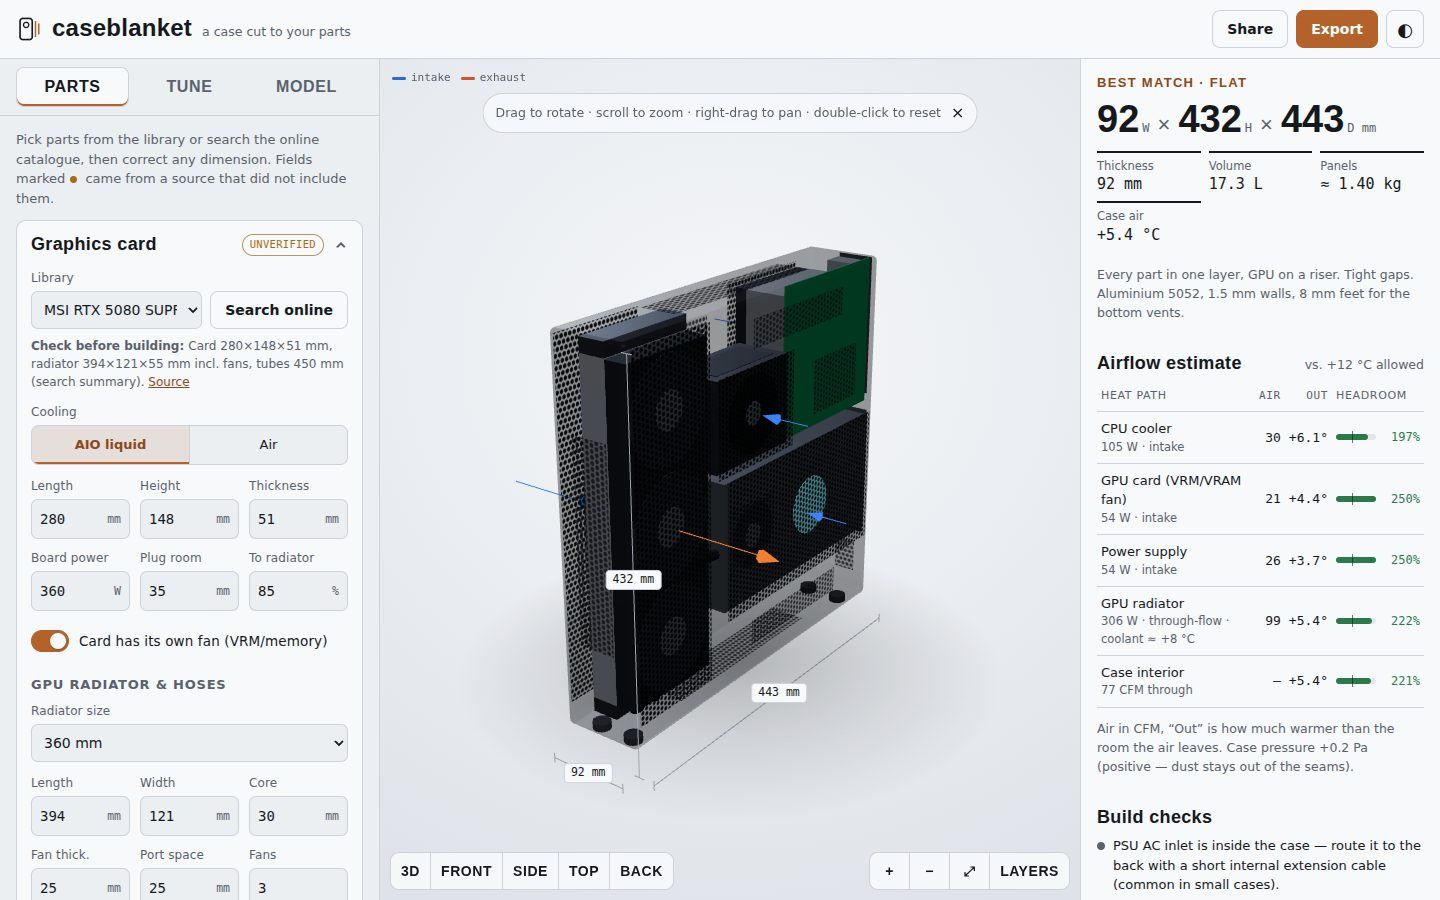
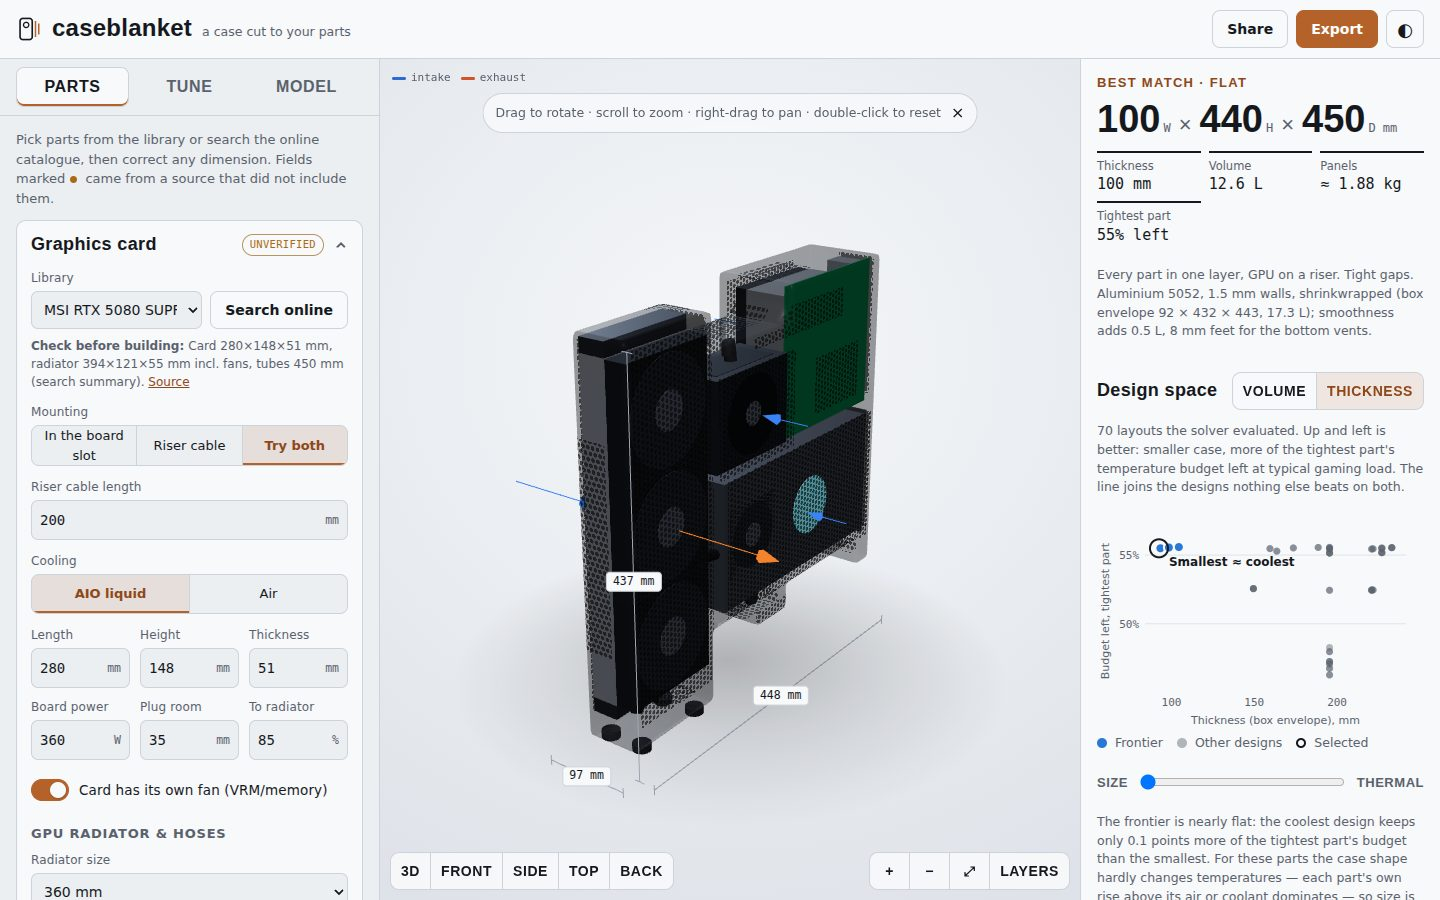
Iteration 1 verification and docs: explorer browser tests, README, airflow brief
The browser test now covers the design-space explorer on a 390 px phone and
on desktop: the scatter and frontier render, tapping or clicking a point
selects it, hover shows a tooltip, the Size-Thermal slider snaps to the
coolest end, the table lists the frontier, the 3D check plots its points,
and nothing scrolls sideways (29 checks pass). README and the airflow brief
describe the tight shell, part temperatures, chambers, the calibration
results and the explorer; screenshots refreshed.

Claude-Session: https://claude.ai/code/session_01YMzNVHq7Gh3b46ZdoLNXnv

diff --git a/README.md b/README.md
@@ -9,20 +9,25 @@ Design a PC case cut to your exact parts. Pick a motherboard, CPU cooler, PSU an
 ## What it does
 
 - **Parts in, case out.** Built-in library (form-factor standards plus a handful of AIO GPUs and coolers), a search of an online parts catalogue, an optional Claude-assisted spec lookup, or your own numbers. Every part shows where its numbers came from.
-- **Straight box to organic shrinkwrap.** A Shape slider pulls the shell around the parts like shrink film: a morphological closing (a ball rolled over the parts, computed with a 3D distance transform) fills the hollows between them and rounds the edges, then a surface-nets mesher turns it into the rendered shell, with perforations drawn by a shader. Every part body stays at least one wall inside. Organic shells report their own size, volume and panel weight, and export as a hollow STL.
-- **3D airflow simulation.** *Simulate airflow* runs an incompressible flow and heat simulation of the case and the room air around it (staggered grid, ~1 cm cells, fans on their fan curves with swirl, porous radiators, fins, PSU and panels, buoyancy) in a worker. The 3D view animates thousands of tracer streaks coloured from room temperature to hot, with an optional temperature slice. See [docs/airflow-sim-brief.md](docs/airflow-sim-brief.md) for the goals and limits.
-- **Shape the airflow.** In the spirit of McLaren's brake ducting, an optimiser tries exhaust deflectors (louvres angled to throw hot plumes away from intakes), intake ducts (sealing a fan to its vent so it can't breathe case air) and radiator fan reversals, keeping each only if the simulation says the air entering the heat sources gets cooler. Kept changes are drawn in copper in the 3D view. In the test case of an exhaust beside an intake, a deflector cuts the re-ingested heat from +8.0 °C to +2.0 °C.
+- **Straight box or tight shrinkwrap.** *Shell* picks a straight box or a shell pulled tight around the parts, their air gaps, the routed AIO hoses and the GPU power cable. *Smoothness* goes from tight with straight faces to smooth, bridging gaps between parts up to 30–130 mm (a morphological closing computed with a 3D distance transform) and rounding the edges; the results say how many litres the smoothing adds. The GPU's power connector gets a local plug box, not a strip along the whole card. A surface-nets mesher turns it into the rendered shell, with perforations drawn by a shader. Every part body, clearance, hose and cable stays at least one wall inside, and 5–6 % of the inside is anything else when tight (18–24 % when smooth).
+- **Design-space explorer.** Every valid layout the solver evaluates is plotted as size (volume or thickness) against how much of the tightest part's temperature budget is left. The frontier (designs nothing beats on both) is highlighted with its smallest and coolest ends; click or tap any point to load it, slide along the frontier, or read it as a table. *Check ends and selection in 3D* runs short 3D simulations of those designs and plots them beside the model's numbers.
+- **Every part against its own limit.** CPU, GPU core, GPU memory/VRM, PSU intake air and the case air around the board each get a temperature: room + the air (or coolant) around it + its own rise (power × an estimated thermal resistance), at *typical gaming* (CPU 50 %, GPU 90 % of rated power) or *sustained full* load. Limits, resistances and loads are editable estimates in the Model tab.
+- **Internal chambers.** The airflow model is a network of air zones. For every layout the solver tries each printed partition that fits between the parts (2 or 3 chambers, with leaky pass-throughs for hoses, cables and the riser) and keeps one only when it lifts the tightest part by more than 5 % of its budget. Walls are drawn in copper, trimmed to the shell and exported as printable pieces. With an air-cooled card and a tower cooler, a wall between the card and the board/PSU frees 20 % of the PSU intake's budget in the model.
+- **3D airflow simulation.** *Simulate airflow* runs an incompressible flow and heat simulation of the case and the room air around it (staggered grid, ~1 cm cells, fans as pressure jumps on their rated curves with swirl, porous radiators, fins, PSU and panels, partitions, buoyancy) in a worker. On calibration ducts it matches the fan-curve model within 2 % and changes by 0.3 % on a grid twice as fine. The 3D view animates thousands of tracer streaks coloured from room temperature to hot, with an optional temperature slice. See [docs/airflow-sim-brief.md](docs/airflow-sim-brief.md).
+- **Shape the airflow.** An optimiser tries exhaust deflectors (louvres throwing hot plumes away from intakes), intake ducts (sealing a fan to its vent), radiator fan reversals and partitions, and keeps a change only when the simulation lifts the tightest part by more than 3 % of its budget; walls that do nothing in 3D are dropped. Kept changes are drawn in copper. In the test case of an exhaust beside an intake, a deflector cuts the re-ingested heat from +8.3 °C to +2.8 °C.
 - **3D-printable pieces.** Export → *3D-printable pieces* turns the shell (box or organic) into solid walls with the vent holes and I/O cut-outs cut through, splits it on straight planes to fit your print bed, and downloads one closed STL per piece in a zip.
 - **GPU mounting toggle.** Put the card straight in the motherboard's x16 slot, on a riser cable, or let the solver try both (Parts → Graphics card → Mounting).
 - **Searches layouts, not just one template.** Four layout families: *flat* (everything in one layer, GPU on a riser), *sandwich* (GPU behind the board), *direct slot* (no riser), and *direct slot with parts stacked behind the board*. Within each family it tries every orientation of the PSU and radiators, every placement, and three gap sizes (plus 15 mm slim radiator fans if you allow them).
-- **Airflow estimate.** Fan curves against panel, radiator and gap losses, a one-zone case pressure balance, and the air temperature rise at every heat source. It's a first-order estimate, not CFD.
+- **Airflow estimate.** Fan curves against panel, radiator and gap losses, a pressure and energy balance for every air zone, and the temperature of every part. It's a first-order estimate, not CFD.
 - **Build checks.** Riser cable reach, AIO hose reach, fans that must face a vented panel, the PSU's AC inlet, your size limits.
-- **Your priorities.** Sliders for airflow vs. compactness and thinness vs. volume, a minimum-airflow floor, edge radius and rounded/chamfered style, wall material and thickness, perforation style, which panels may be vented, passive-vent coverage, radiator fan direction, slim fans, tower or console orientation, riser length, part clearance, max width/height/depth, room temperature and allowed air temperature rise. The Model tab exposes the gap sizes and loss coefficients.
+- **Your priorities.** Sliders for airflow vs. compactness and thinness vs. volume, a minimum-airflow floor, shell type and smoothness, edge radius and rounded/chamfered style, wall material and thickness, perforation style, which panels may be vented, passive-vent coverage, radiator fan direction, slim fans, internal chambers, tower or console orientation, riser length, part clearance, max width/height/depth, room temperature and load profile. The Model tab exposes the gap sizes, loss coefficients, loads, temperature limits and thermal resistances.
 - **Alternatives.** Best match, thinnest, smallest, coolest and the best of each layout family, each with its trade-off against the best match.
 - **3D view.** Touch: one finger rotates, pinch zooms, two fingers pan, double-tap resets. Mouse: drag, wheel, right-drag, double-click. Preset views, see-through shell, exploded view, airflow arrows (blue in, orange/red out, redder = warmer), dimension lines, part names and clearance boxes.
-- **Exports.** Hollow shell as STL, flat drawings of all six panels with perforations and cut-outs as 1:1 SVG, a PNG of the view, the full design as JSON, and a share link that carries every setting.
+- **Exports.** Hollow shell as STL, 3D-printable pieces (shell and partition walls) as a zip of STLs, flat drawings of all six panels with perforations and cut-outs as 1:1 SVG (straight box only), a PNG of the view, the full design as JSON, and a share link that carries every setting.
 
 ## Design brief
+
+Later rounds have their own briefs: [iteration 1](docs/iteration-1-brief.md) (tight shell, part temperatures, chambers, calibrated simulation, design-space explorer) and [iteration 2](docs/iteration-2-brief.md) (noise, structures round 2, printability, independent references).
 
 The request was to "improve this prompt before running it". The brief it was built against:
 
@@ -72,14 +77,14 @@ A layout family defines one or two layers along t. Parts either sit in a layer o
 
 The default build solves 20 runs and evaluates 200 layouts in about a second, in a Web Worker.
 
-### Airflow model (`src/solver/airflow.ts`)
+### Airflow model (`src/solver/airflow.ts`, `src/solver/chambers.ts`)
 
 - Fans: a straight line from rated free airflow to max static pressure. Groups of fans add airflow.
 - Losses: ζ·½ρv² terms for the perforated panel (Idelchik's thin perforated plate, ζ = (0.707·(1−φ)^0.375 + 1 − φ)² / φ²), the radiator core (scaled by core thickness), air-cooler fins, PSU internals, dust filters, a fan-to-panel proximity term and the plenum behind radiators that blow into or out of the case.
-- The case is one air zone. Intake fans push against the case pressure, exhaust fans are helped by it, and passive vents (plus ~10 cm² of seam leakage) close the mass balance. The pressure is found by bisection.
-- Each heat path leaves the room temperature behind by ΔT = P / (ρ·cp·Q), plus the case-air rise if it drew case air. Headroom is your allowed rise divided by that. The airflow score is the heat-weighted mean of headroom/(headroom + 1), so 50% means every path gets exactly what it needs.
+- The case is a network of air zones (one, unless partitions split it). Each zone has its own pressure, passive vents and seam leakage; zones exchange air through the partitions' pass-throughs and joints. Pressures come from mass balance (Newton), zone temperatures from energy balance (a linear system).
+- Each heat path warms its air by ΔT = P / (ρ·cp·Q) over the air it drew. Each part's temperature is room + that air (mean across its fins, its coolant at the radiator's effectiveness, its intake air for the PSU, or its zone's air) + its own rise, power × thermal resistance. The design is rated on the share of each part's budget (limit − room) left; the score weights each part by its heat.
 
-Treat it as a ranking tool. Real fan curves bend, air leaks and short-circuits between vents, and radiator performance depends on more than airflow. Prototype anything under about 120% headroom before cutting metal.
+Treat it as a ranking tool. Real fan curves bend, air leaks and short-circuits between vents, and radiator performance depends on more than airflow. Prototype anything with less than about a third of its budget left before cutting metal.
 
 ### Trust levels of the numbers
 
@@ -98,7 +103,11 @@ In the catalogue dialog, *Look it up with Claude* sends the part name to Claude 
 ## Known limits
 
 - The one-piece STL is the shell surface without vents; the 3D-printable pieces have the vents and cut-outs. Neither includes standoffs, screw bosses or fan mounting holes.
-- The airflow simulation is coarse (~1 cm cells): it doesn't resolve blades, fin passages or boundary layers, and it under-predicts airflow through dense radiators compared with the fan-curve model. Use it to compare options.
+- The airflow simulation is coarse (~1 cm cells): it doesn't resolve blades, fin passages, boundary layers or turbulence, so bell-mouth inlets, diffusers, turning vanes and vortex generators are listed, not evaluated. Its calibration is against the app's own fan-curve model; independent references come in iteration 2 ([docs/iteration-2-brief.md](docs/iteration-2-brief.md)).
+- Temperature limits, thermal resistances and load shares are typical values, not your parts' datasheets.
+- For the default parts the design-space frontier is nearly flat: case geometry moves the tightest part by under a point of its budget, because each part's own rise above its air dominates. Fan speed, the bigger lever, is iteration 2.
+- The explorer plots box-envelope sizes; the selected design's shrinkwrapped size is in its summary.
+- The solver reserves the GPU connector's bend room along the whole card edge when packing; only the shell uses the local plug box.
 - The direct-slot card position, socket and x16-slot locations and the riser path are typical values, not taken from your specific board.
 - Cables are modelled as clearance boxes (PSU cable face, GPU power connector, hoses), not routed.
 - Built-in AIO GPU entries are few and unverified. For anything else, use the catalogue, the Claude lookup or the spec sheet.

diff --git a/docs/airflow-sim-brief.md b/docs/airflow-sim-brief.md
@@ -46,3 +46,22 @@ Add a 3D airflow and heat simulation that runs in the browser for the selected d
 - Grid cells of about 10 mm can't resolve fan blades, fin passages or boundary layers. Swirl is imposed, not resolved, and fine vortex structure is partly numerical.
 - Steady-state numbers are good for comparing layouts and shaping options. They aren't a substitute for testing a prototype.
 - The temperature rise comes from the heat released into the air. Component junction temperatures are not modelled.
+
+## Update, iteration 1 (see docs/iteration-1-brief.md)
+
+**Calibration.** The first version under-predicted airflow by about 40 % even in a plain duct: the fans' push and the porous drag were applied before the pressure projection, which diluted them by (1 + coefficient × dt) at the time steps used, roughly 13× for fans and 6× for radiator cores. Both now act inside the projection: every face's velocity is v = W·(v* − Δp/h) + S, with porous drag giving W = 1/(1 + k·|v*|·dt) and each fan face carrying its fan curve as a pressure jump, Δp = Pmax·(1 − v/vmax), solved implicitly (as OpenFOAM's fan baffle). Calibration tests (`tests/cfd-calibration.test.ts`), a 120 mm fan in a duct open to room air at both ends, against the fan-curve model with the same losses:
+
+| Case | 3D sim | Fan-curve model | Difference |
+|---|---|---|---|
+| Open duct | 52.2 CFM | 53.0 CFM | −2 % |
+| Through a 50 %-open perforated panel | 42.1 CFM | 42.3 CFM | −1 % |
+| Through a 27 mm radiator core | 33.0 CFM | 33.2 CFM | 0 % |
+| Radiator case, cells 12 mm → 6 mm | 33.1 → 33.0 CFM | | −0.3 % |
+
+In a full case the radiator's air temperature rise agrees with the fan-curve model within 7 %. This calibration is against the app's own fan-curve model, so it checks the solver's consistency, not reality; iteration 2 adds independent references (an OpenFOAM case export and measurements from a printed prototype).
+
+**Component temperatures.** Simulation results are read as component temperatures by the same rules as the airflow model: the simulated air (or coolant) around each part plus that part's own rise (power × an estimated thermal resistance), against its own limit, at the design's load.
+
+**Structures.** The optimiser tries exhaust deflectors, intake ducts, radiator fan reversals and internal partitions (or removing the design's own), and keeps a change only when it lifts the tightest part's margin by more than 3 % of its budget; walls that make no difference in 3D are dropped. Bell-mouth inlets, diffusers, turning vanes and vortex generators act on features smaller than a grid cell, so they are listed as needing a finer reference simulation and never claimed.
+
+**Recirculation test, recalibrated.** An exhaust beside an intake: the intake air is +8.3 K over room without a deflector, +2.8 K with one (before calibration: +8.0 K and +2.0 K).
